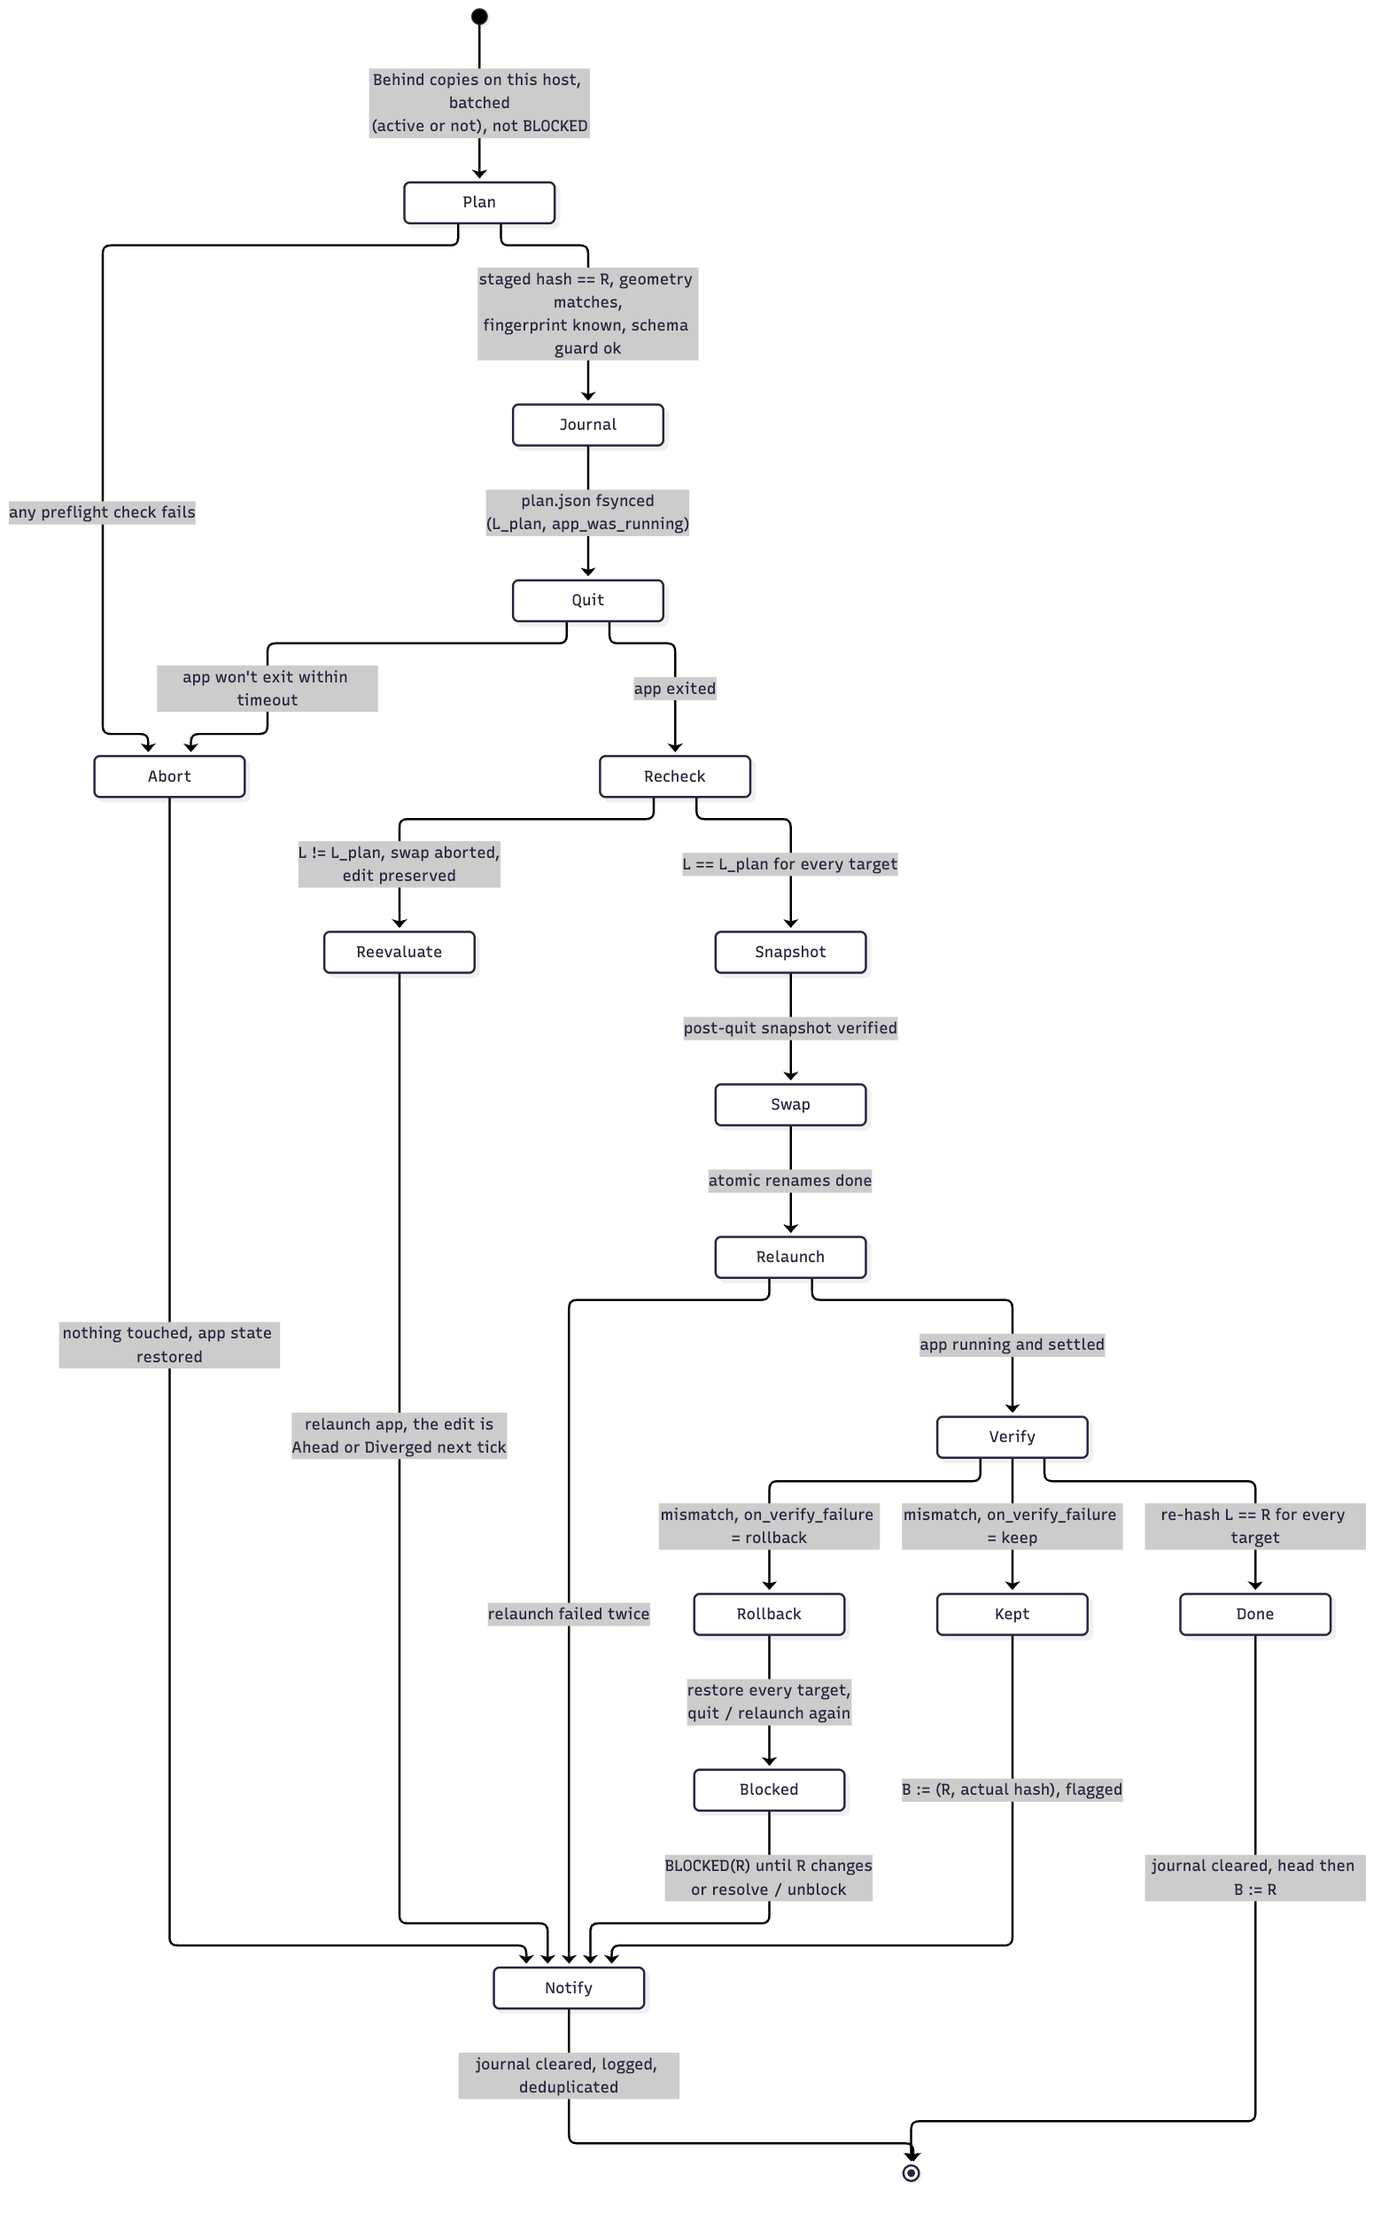
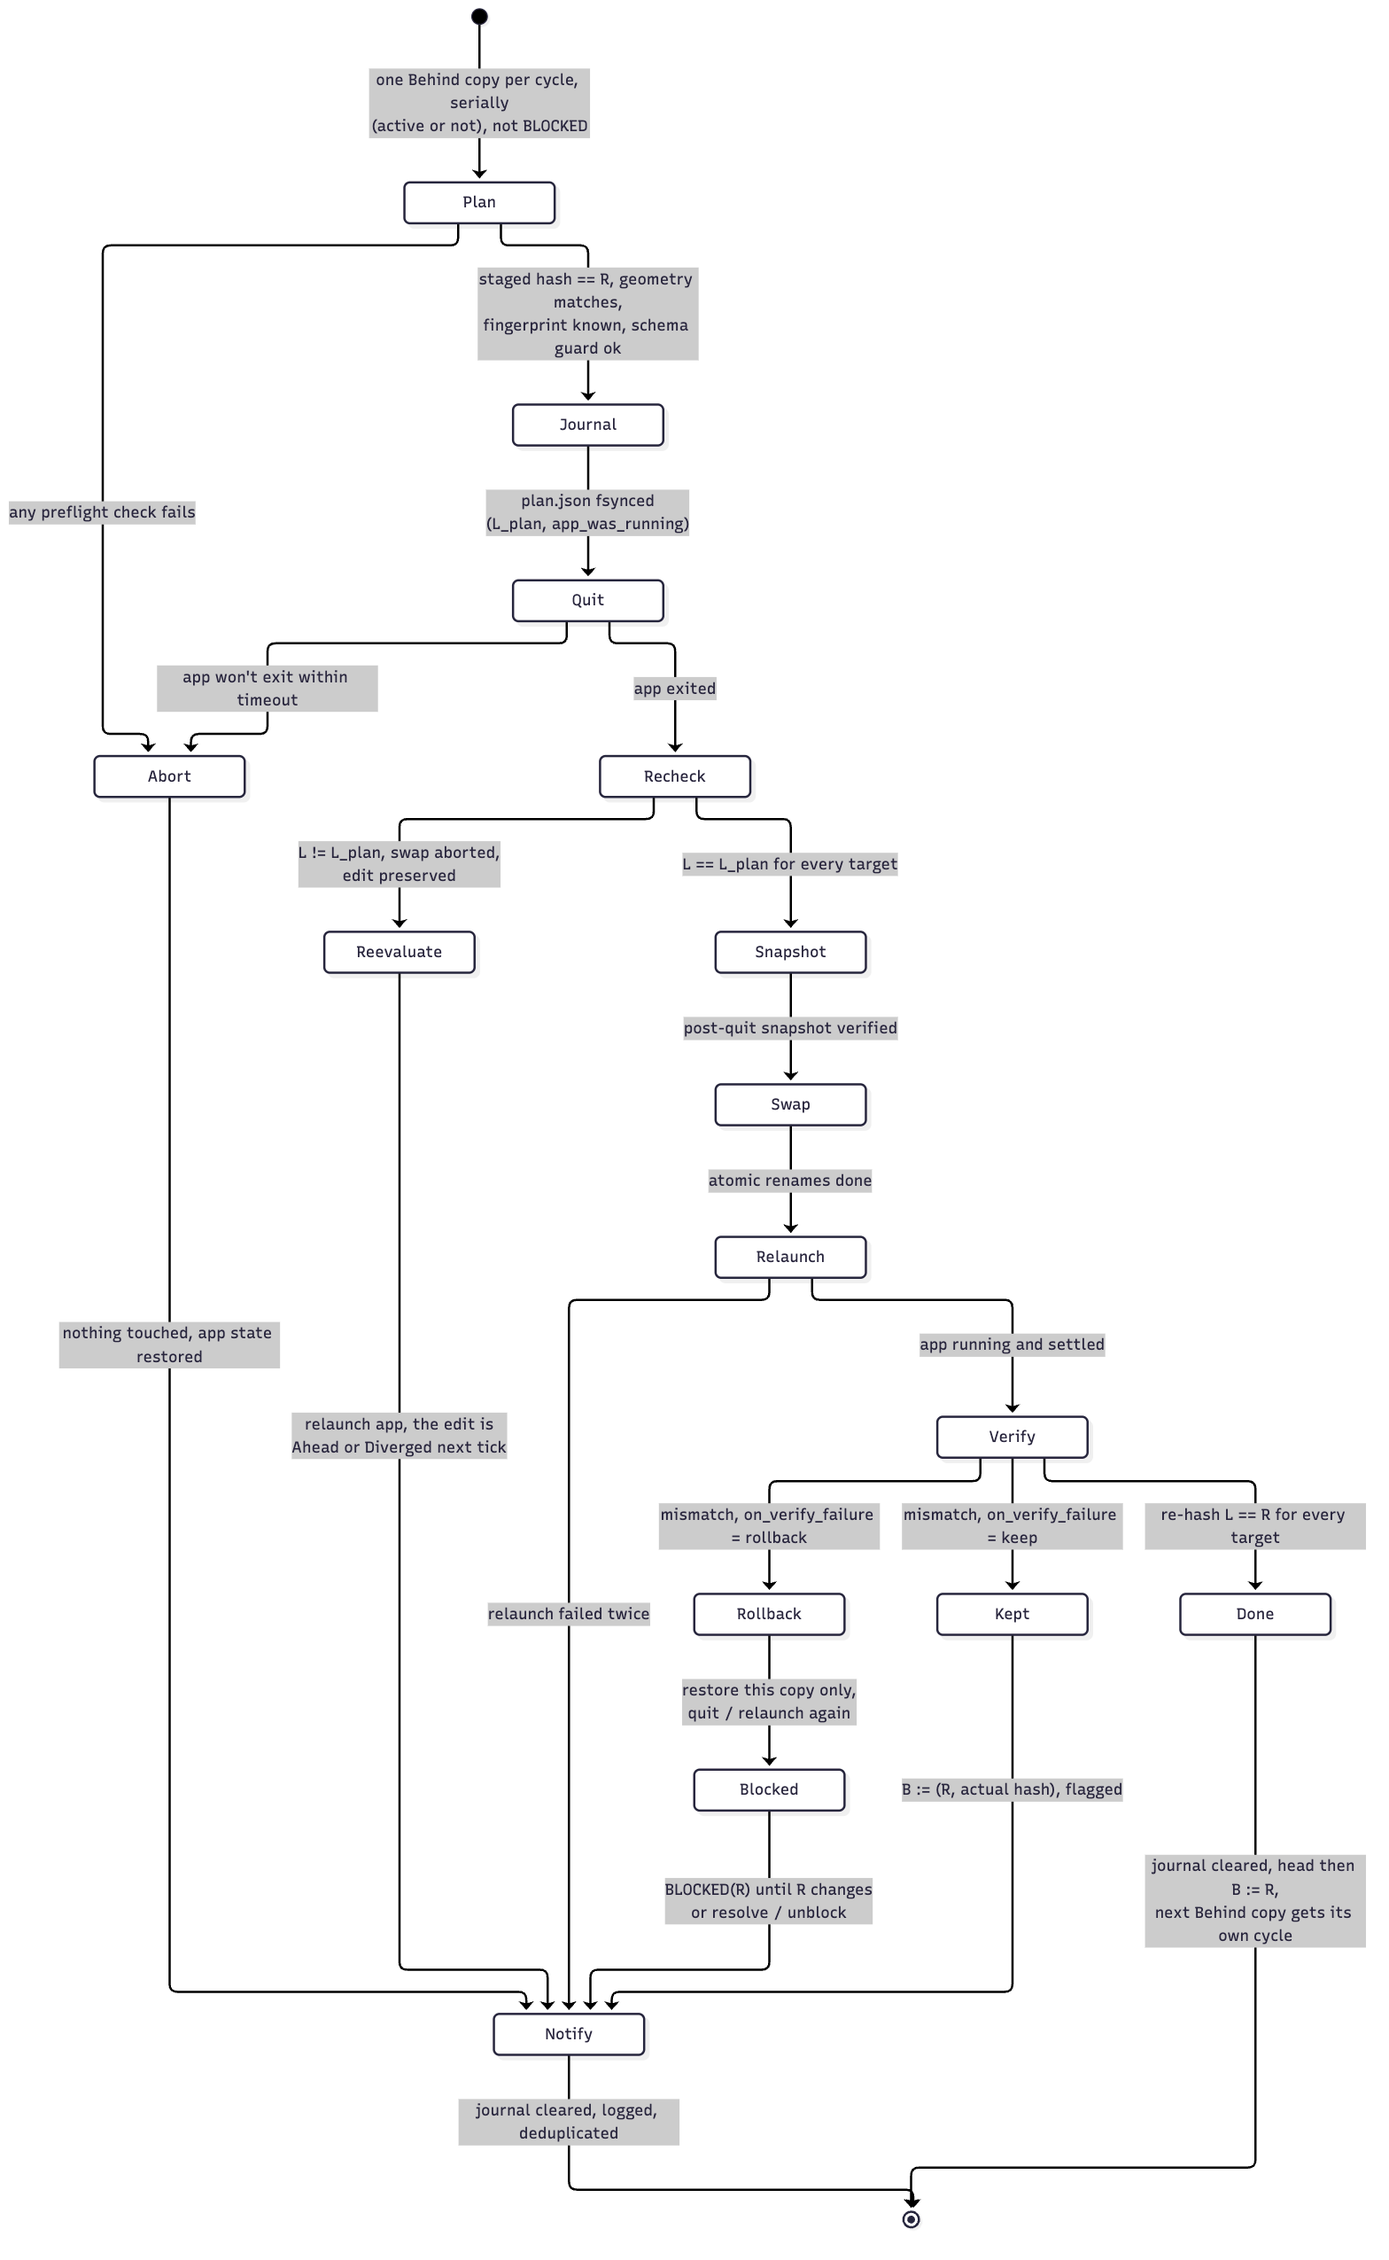
docs(#5): apply Behind copies serially, one copy per restart; rollback per copy

diff --git a/docs/adr/0026-profile-identity.md b/docs/adr/0026-profile-identity.md
@@ -16,7 +16,7 @@ Virtual decks need a physical deck seen within the last 30 days, or they go away
 
 - **`profile_id`** is a random UUIDv4 assigned by `init`/`share` when a setup is created from a template ([0029](0029-problem-statement-and-setup-model.md)), recorded in the write-once `profiles/<profile_id>/profile.json.<host_id>` ([contract D](../contracts/store-format.md)). It never changes. A profile's display name is just content, so renames sync as ordinary edits.
 - **Every member copy is a profile schrodeck created** ([0029](0029-problem-statement-and-setup-model.md)), on every host, including the one that created the setup from a template. The template's folder is never part of the mapping. Local state maps `member folder UUID → (profile_id, deck_key)`.
-- **A member copy's primary key is the triple (setup, Mac, deck) = (`profile_id`, `host_id`, `deck_key`).** All three are needed: one deck can hold copies of several setups, the same physical deck behind a switch is a different copy on each Mac, and two decks on one Mac are two copies. Within a setup's store folder the key reduces to (Mac, deck). Each copy is an independent sync peer; the Mac only executes (one batched app restart, its own variables and dependencies).
+- **A member copy's primary key is the triple (setup, Mac, deck) = (`profile_id`, `host_id`, `deck_key`).** All three are needed: one deck can hold copies of several setups, the same physical deck behind a switch is a different copy on each Mac, and two decks on one Mac are two copies. Within a setup's store folder the key reduces to (Mac, deck). Each copy is an independent sync peer; the Mac only executes (serial applies, one copy per app restart; its own variables and dependencies).
 - **`copy_id`** identifies a member copy in the store: `uuid5(NAMESPACE_SCHRODECK, host_id + ":" + profile_id + ":" + deck_key)`. It names the copy's head (`heads/<host_id>/<copy_id>.json`) and its entry in `hosts/<host_id>.toml` ([contract D](../contracts/store-format.md#layout), issue #5). It is derived, so a host that loses its local state recomputes it; it is a one-way hash, so the deck's serial never reaches the store. It differs from the canonical folder name on purpose: the folder name is local and leaves out `host_id`, while `copy_id` is shared and includes it, so the same deck behind a switch is not linkable across Macs in the store.
 - **Cross-profile references** (a button that switches to another profile by its folder UUID, [contract C](../contracts/profile-format.md) P8, likely, unverified) are translated through the same mapping: stored as the target's `profile_id`, expanded on install to the target's local folder on this host if it is subscribed here, otherwise reported as a dangling dependency ([0013](0013-sync-scope-and-scripts.md), review F46).
 - **Every member copy** (the creating host's first copy and every joiner's copy alike) lives in the **canonical folder** `uuid5(NAMESPACE_SCHRODECK, profile_id + ":" + deck_key)`. The name is deterministic, so a host that loses its local state can rebuild the mapping by recomputing the names.
@@ -35,7 +35,7 @@ Virtual decks need a physical deck seen within the last 30 days, or they go away
   - `hosts/<host_id>.toml`'s subscriptions (`profile_id → [{copy_id, deck_model}]`), which `status` on other hosts can display. No raw `deck_key` is written there.
 
 - **Choosing a deck:** the user always picks the destination device explicitly ([0022](0022-onboarding-init-and-join.md)); `--deck` is required non-interactively when more than one local deck has a matching geometry. This also covers two same-size decks on one host: each setup goes where the user puts it. Join never auto-subscribes.
-- **One profile on two decks** on one host means two copies with two folders, two B values and **two heads**, and the copies are full peers: an edit on either syncs to the other and to every other Mac (owner's decision, issue #5). Applies to both are done in one batch ([0008](0008-two-phase-apply.md)).
+- **One profile on two decks** on one host means two copies with two folders, two B values and **two heads**, and the copies are full peers: an edit on either syncs to the other and to every other Mac (owner's decision, issue #5). Each is applied in its own cycle, serially ([0008](0008-two-phase-apply.md)), so a failure is attributed to one copy.
 - **Deck loss:** if the deck a copy is bound to disappears from the app's device list (as opposed to being disconnected, which the app keeps listing, [R11](../references.md)), including a virtual deck that expired, that copy becomes **DETACHED(deck-gone)** ([0030](0030-fail-closed-detach.md)): nothing is pushed or pulled for it, one notification is sent, and it does **not** resume by itself if the deck reappears. `schrodeck resolve <setup>` offers rejoin (a new member copy on a compatible device; if that's the same device after it came back, the detached copy is archived first, as above) or unmap.
 
 ## Consequences
@@ -61,7 +61,7 @@ Virtual decks need a physical deck seen within the last 30 days, or they go away
 No check yet; to be written in the plan:
 - Deleting local state and re-running ⇒ the same folder ↔ profile mapping is rebuilt, and each copy's B is recovered from that copy's own head ([0005](0005-direction-detection-three-way-hash.md) Recover row), with no Diverged on any host, including the one that created the setup. Known-bad: without head-based recovery, the same test reports Diverged.
 - Two devices with the same prefs key (e.g. two virtual decks) ⇒ `subscribe` refuses both, no install.
-- Subscribing one profile onto two decks ⇒ two distinct folders, two distinct `copy_id`s and heads, one batched apply. Known-bad: an implementation keyed by host (one head per host) must fail the two-copies-edited test in [0005](0005-direction-detection-three-way-hash.md).
+- Subscribing one profile onto two decks ⇒ two distinct folders, two distinct `copy_id`s and heads, two serial apply cycles. Known-bad: an implementation keyed by host (one head per host) must fail the two-copies-edited test in [0005](0005-direction-detection-three-way-hash.md).
 - Removing a deck from the fake device list ⇒ DETACHED(deck-gone), no apply, one notification; restoring it ⇒ **still** DETACHED until `resolve` (known-bad: auto-resume must fail the test).
 - Two matching decks and no `--deck` ⇒ refuse.
 - **Rejoin onto the same deck** (detached copy present, or an earlier unmapped copy) ⇒ the old copy is moved to a new folder and renamed `<name>-<datestamp>` with its content otherwise byte-identical; the new member is in the canonical folder with the canonical name; the rundown and one notification both name the archive. Known-bad: an implementation that reuses or overwrites the old folder must fail (the old copy's bytes must still exist afterwards).

diff --git a/docs/adr/0008-two-phase-apply.md b/docs/adr/0008-two-phase-apply.md
@@ -1,6 +1,6 @@
 # 0008. Applying an update is plan → commit → verify, with a post-quit re-check
 
-Status: Accepted 2026-10-01. Revised 2026-10-01 (review F2, F5, F6, F11, F12, F18): Revised 2026-10-01 (fail closed, [0030](0030-fail-closed-detach.md)): an unreadable or inconsistent journal detaches its targets instead of guessing. Revised 2026-10-01 (review F50, F51): installs regenerate `ActionID`s, and a rejoin archives the old copy inside the same apply. Revised 2026-10-02 (issue #5, owner's decision): the verify step moves that copy's own head; heads are per member copy.
+Status: Accepted 2026-10-01. Revised 2026-10-01 (review F2, F5, F6, F11, F12, F18): Revised 2026-10-01 (fail closed, [0030](0030-fail-closed-detach.md)): an unreadable or inconsistent journal detaches its targets instead of guessing. Revised 2026-10-01 (review F50, F51): installs regenerate `ActionID`s, and a rejoin archives the old copy inside the same apply. Revised 2026-10-02 (issue #5, owner's decision): the verify step moves that copy's own head; heads are per member copy. Revised 2026-10-02 (owner's decision): copies are applied **serially, one copy per apply cycle and app restart**, so a verify failure is always attributable to exactly one copy and rollback is per copy; replaces the batched, all-or-nothing-per-run apply.
 - a post-quit re-check;
 - the incoming fingerprint is validated;
 - a verify failure ends in BLOCKED, not a retry loop;
@@ -24,9 +24,9 @@ The review found that reading local state only **before** quitting loses edits. 
 **A run is ordered:**
 1. Pushes.
 2. Re-read the heads.
-3. One batched apply of every copy on this host that is Behind.
+3. Apply every copy on this host that is Behind, **serially: one copy per apply cycle** (steps 1–9 below, one app restart each), in a deterministic order (by `copy_id`).
 
-Two copies of one profile on one host (on two decks) are applied in the same batch, so the app restarts once. Rollback is **all-or-nothing per run**.
+A cycle's targets are one copy, plus its archive on a rejoin. Two Behind copies on one host (two decks on one setup, or two setups on one deck) are two cycles and two restarts. This is deliberate (owner's decision): when a verify fails there is no ambiguity about which copy caused it, so rollback touches **only that copy**, and copies already applied in the run stay applied with their heads moved. After a failed cycle the run continues to the next copy only if the rollback brought the app back up healthy; otherwise the run stops and the remaining copies wait for the next tick.
 
 **The app restart is the commit point (in the transaction sense). Everything that can fail is checked before it, and the local state is re-checked after the app has stopped writing.**
 
@@ -53,7 +53,7 @@ Two copies of one profile on one host (on two decks) are applied in the same bat
 9. **On verify failure,** log the expected and actual hashes and the differing key paths, then follow `apply.on_verify_failure`:
    - **`rollback` (default):**
      1. Snapshot the failed post-apply tree first, for diagnosis.
-     2. Restore the step-5 snapshot of **every** target in the run, through quit / swap / relaunch.
+     2. Restore the step-5 snapshot of this cycle's targets (the one copy, and its archive on a rejoin), through quit / swap / relaunch. Copies applied in earlier cycles of the run are not touched.
      3. Set a durable **BLOCKED(R)** in local state for that profile.
      4. Notify, deduplicated: "schrodeck won't update *<profile>* on this Mac: the incoming version failed verification. If you edited this profile while Stream Deck was restarting, your edit is saved in history. See `schrodeck status <profile>`."
 
@@ -75,7 +75,8 @@ The selected profile per deck is never touched ([0019](0019-selected-profile-sta
 ## Consequences
 
 - Good: an aborted plan has no side effects, an edit made during the apply window is preserved, and a crash at any step has one defined recovery.
-- Good: a broken incoming version costs one restart and one rollback per host, not one per hour.
+- Good: a broken incoming version costs one restart and one rollback for that copy, not one per hour, and never holds back other copies on the same host.
+- Bad: N Behind copies on one host cost N restarts (N short deck blanks) in one run. Accepted by the project owner in exchange for unambiguous attribution; it only happens when several copies changed since the last run.
 - Good: applies to inactive subscribed copies too ([0004](0004-shared-profiles-and-subscriptions.md)).
 - Bad: every apply restarts the app, so the deck blanks for a few seconds. Accepted by the project owner ("always auto").
 - Bad: BLOCKED needs a person to clear it, unless a new revision arrives. That is intentional.
@@ -96,7 +97,7 @@ No check yet; to be written in the plan:
 - Injected failures at each step ⇒ the expected end state: plan failure → no app file opened for writing (filesystem-port assertion); quit timeout → app still running; crash at each journal step → the recovery rule above.
 - **Post-quit edit:** a fake app that modifies a target during Quit ⇒ the swap is aborted, and the copy is Ahead on the next tick. Known-bad: with the re-check disabled, the same test must lose the edit.
 - **Verify failure:** a fake app that rewrites a field on launch ⇒ one rollback, BLOCKED(R) set, exactly one notification across 10 subsequent runs, and zero further applies until R changes.
-- Two copies of one profile on one host ⇒ one quit/relaunch.
+- Two Behind copies on one host ⇒ two sequential cycles, two quit/relaunches. With a verify failure injected into the second cycle, only the second copy is rolled back and BLOCKED; the first stays applied and its head has moved. Known-bad: a batched, all-or-nothing implementation rolls back both and must fail this test.
 - Crash **between renames** (journal at `swapping`, ledger partly done; for plain and rejoin applies, at each possible point) ⇒ recovery completes the ledger: the canonical folder holds the new member, the old copy is aside (outside `ProfilesV3`) or in its archive folder, and no extra profile appears in `ProfilesV3`. Known-bad: a recovery that treats `swapping` like `snapshotted` ("originals untouched") must fail this test (review F58).
 - Crash after the quit but before the swap (journal at `planned` or `snapshotted`, app not running, `app_was_running = true`) ⇒ recovery relaunches the app, and the originals are untouched. Known-bad: recovery that only discards the staging leaves the app stopped and must fail this test.
 - Settle-window edit: a fake user edit during settle ⇒ BLOCKED, the notification mentions the possible edit, and `resolve --push-post-apply` publishes it and clears BLOCKED.

diff --git a/docs/specs/2026-10-01-sync-design.md b/docs/specs/2026-10-01-sync-design.md
@@ -156,7 +156,7 @@ Changing the app's files is surgery on a live system. **The app restart is the c
 A run goes:
 1. Pushes.
 2. Re-read heads.
-3. **One batched apply** of every Behind copy on this host, active or not, with one app restart.
+3. **Serial applies:** each Behind copy on this host, active or not, gets its own apply cycle and app restart, so a verify failure is always attributable to one copy and rollback touches only that copy.
 
 ![apply state diagram](../apply-states.png)
 
@@ -173,7 +173,7 @@ A run goes:
 7. **Relaunch** if it was running, and settle.
 8. **Verify:** L == hash(R) ⇒ move the head to R, then B := R.
 9. **Verify failure:**
-   - `rollback` (default): restore every target, then **BLOCKED(R)**, with one deduplicated notification ("schrodeck won't update *Work* on this Mac: the incoming version failed verification"). Because a user edit during the restart looks the same as a failed verify, the notification says so, and `resolve --push-post-apply` publishes the kept post-apply tree. There is no retry until R changes or the user runs `resolve`/`unblock`.
+   - `rollback` (default): restore this copy (and its archive on a rejoin) only, then **BLOCKED(R)**, with one deduplicated notification ("schrodeck won't update *Work* on this Mac: the incoming version failed verification"). Because a user edit during the restart looks the same as a failed verify, the notification says so, and `resolve --push-post-apply` publishes the kept post-apply tree. There is no retry until R changes or the user runs `resolve`/`unblock`.
    - `keep`: B := (R, actual hash), flagged.
 
 Crash recovery follows the journal step: before the swap, discard and restore the app's running state (relaunching it if the crash came after the quit); at or after the swap, roll forward through Quit and Verify. Every path ends with the app as it was before the apply. B is set only after this host's head is moved. **The selected profile on each deck is never read or written for sync** ([R14]). After the restart each deck shows what it showed before, and Smart Profiles keep switching locally ([R13]).
